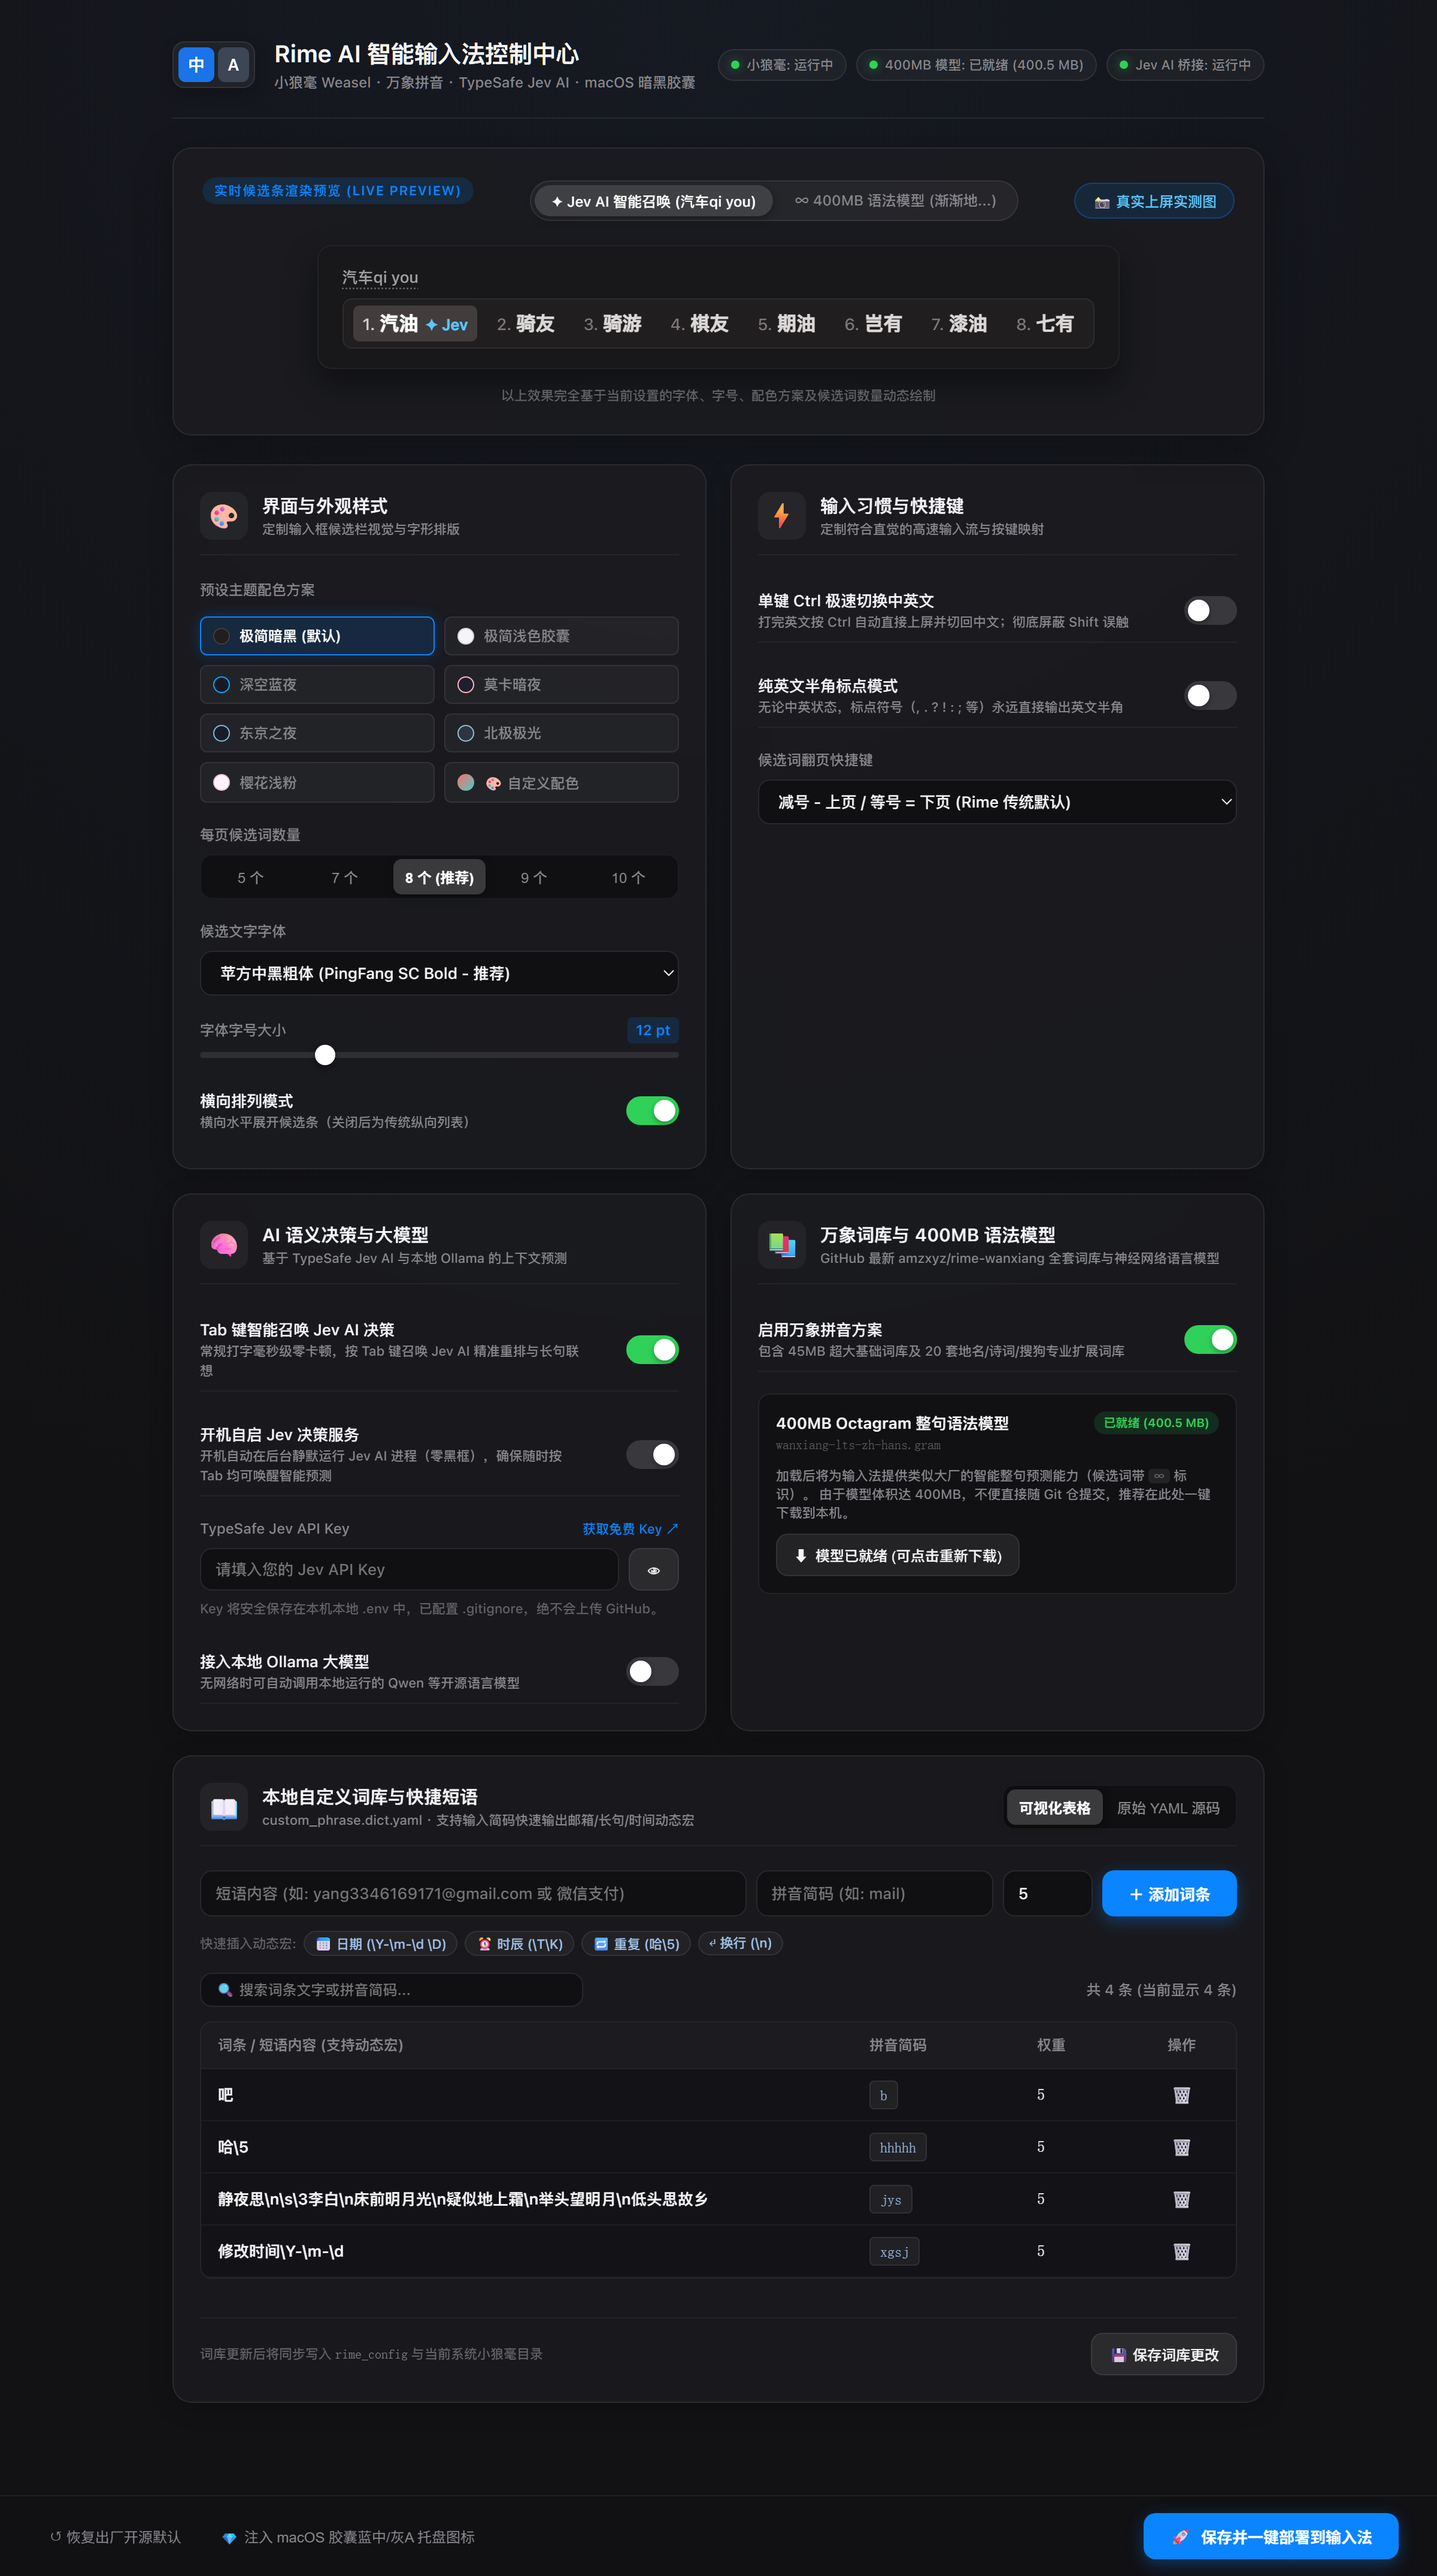
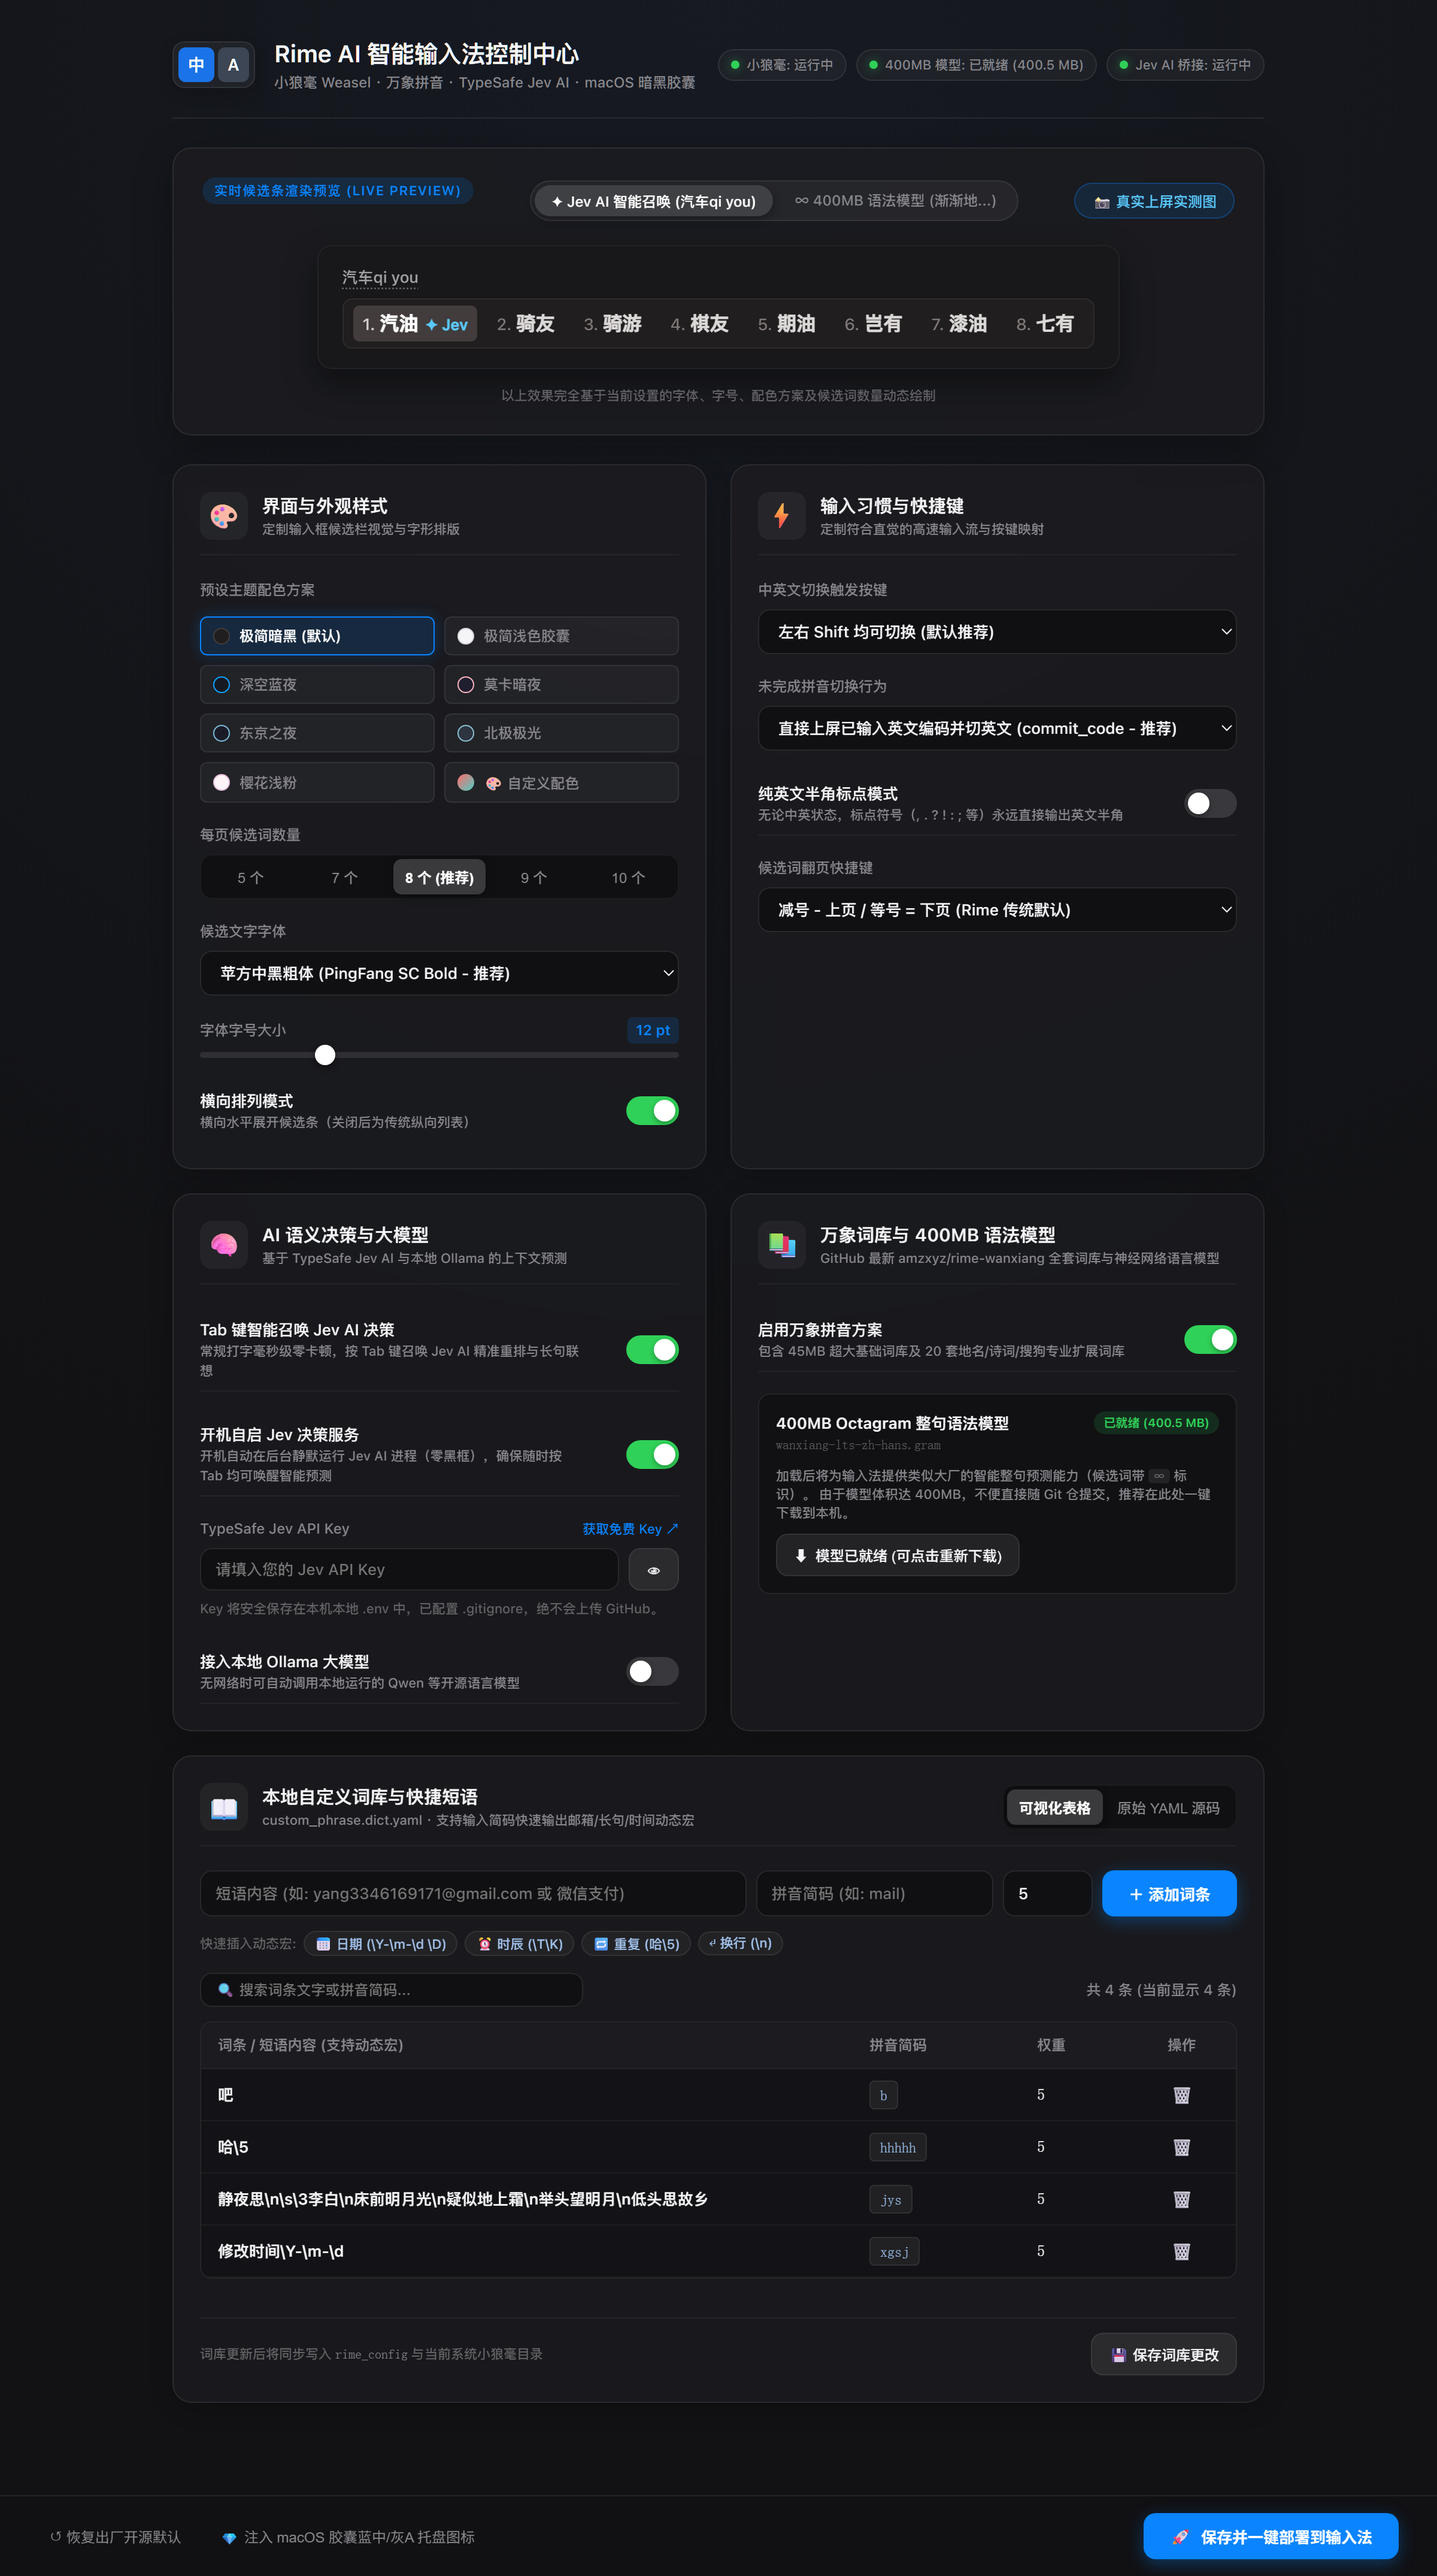
feat: make Chinese/English switch key customizable, set default to Shift, and enable instant compile on custom phrase save

Changed region(s): [[0.5312, 0.2181, 0.75, 0.3428], [0.8125, 0.2181, 0.875, 0.3428], [0.4375, 0.5609, 0.4688, 0.5921]]

diff --git a/settings_panel/web/script.js b/settings_panel/web/script.js
@@ -2,7 +2,9 @@
 
 let currentConfig = {
   page_size: 8,
-  ctrl_switch: true,
+  switch_key: "shift_both",
+  switch_action: "commit_code",
+  ctrl_switch: false,
   ascii_punct: true,
   paging_keys: "bracket",
   font_face: "PingFang SC Bold, PingFang SC Medium, PingFang SC, Microsoft YaHei UI, Segoe UI",
@@ -212,12 +214,28 @@ function applyConfigToUI(cfg) {
   const badge = document.getElementById("fontsize-val");
   if (badge && cfg.font_point) badge.innerText = cfg.font_point + " pt";
 
-  // 开关类
+  // 开关与按键类
   document.getElementById("switch-horizontal").checked = cfg.horizontal !== false;
-  document.getElementById("switch-ctrl").checked = !!cfg.ctrl_switch;
   document.getElementById("switch-punct").checked = !!cfg.ascii_punct;
   document.getElementById("switch-tab-jev").checked = cfg.tab_jev_ai !== false;
   document.getElementById("switch-wanxiang").checked = cfg.wanxiang_enabled !== false;
+
+  // 中英文切换按键与动作
+  const switchKeySelect = document.getElementById("switch-key-select");
+  if (switchKeySelect) {
+    if (cfg.switch_key) {
+      switchKeySelect.value = cfg.switch_key;
+    } else if (cfg.ctrl_switch) {
+      switchKeySelect.value = "ctrl_both";
+    } else {
+      switchKeySelect.value = "shift_both";
+    }
+  }
+
+  const switchActionSelect = document.getElementById("switch-action-select");
+  if (switchActionSelect && cfg.switch_action) {
+    switchActionSelect.value = cfg.switch_action;
+  }
 
   // 翻页按键
   const pagingSelect = document.getElementById("paging-select");
@@ -491,9 +509,21 @@ function bindEvents() {
     currentConfig.horizontal = e.target.checked;
     renderPreview();
   });
-  document.getElementById("switch-ctrl").addEventListener("change", (e) => {
-    currentConfig.ctrl_switch = e.target.checked;
-  });
+  // 中英文切换按键与动作监听
+  const switchKeySelect = document.getElementById("switch-key-select");
+  if (switchKeySelect) {
+    switchKeySelect.addEventListener("change", (e) => {
+      currentConfig.switch_key = e.target.value;
+      currentConfig.ctrl_switch = (e.target.value === "ctrl_both" || e.target.value === "ctrl_l" || e.target.value === "ctrl_r");
+    });
+  }
+
+  const switchActionSelect = document.getElementById("switch-action-select");
+  if (switchActionSelect) {
+    switchActionSelect.addEventListener("change", (e) => {
+      currentConfig.switch_action = e.target.value;
+    });
+  }
   document.getElementById("switch-punct").addEventListener("change", (e) => {
     currentConfig.ascii_punct = e.target.checked;
   });

diff --git a/settings_panel/web/index.html b/settings_panel/web/index.html
@@ -224,15 +224,27 @@
           </div>
         </div>
         <div class="card-body">
-          <div class="form-group switch-group">
-            <div>
-              <div class="switch-title">单键 Ctrl 极速切换中英文</div>
-              <div class="switch-desc">打完英文按 Ctrl 自动直接上屏并切回中文；彻底屏蔽 Shift 误触</div>
-            </div>
-            <label class="mac-switch">
-              <input type="checkbox" id="switch-ctrl">
-              <span class="slider"></span>
-            </label>
+          <div class="form-group">
+            <label>中英文切换触发按键</label>
+            <select id="switch-key-select" class="mac-select">
+              <option value="shift_both">左右 Shift 均可切换 (默认推荐)</option>
+              <option value="shift_l">仅左 Shift 单键切换</option>
+              <option value="shift_r">仅右 Shift 单键切换 (避开左侧打字误触)</option>
+              <option value="ctrl_both">左右 Ctrl 单键切换 (彻底屏蔽 Shift 误触)</option>
+              <option value="ctrl_l">仅左 Ctrl 单键切换</option>
+              <option value="ctrl_r">仅右 Ctrl 单键切换</option>
+              <option value="none">禁用单键切换 (仅保留 Caps Lock 切换，彻底杜绝误触)</option>
+            </select>
+          </div>
+
+          <div class="form-group">
+            <label>未完成拼音切换行为</label>
+            <select id="switch-action-select" class="mac-select">
+              <option value="commit_code">直接上屏已输入英文编码并切英文 (commit_code - 推荐)</option>
+              <option value="clear">清除未完成拼音并切英文 (clear)</option>
+              <option value="inline_ascii">行内临时英文模式 (inline_ascii)</option>
+              <option value="commit_text">上屏首选汉字并切英文 (commit_text)</option>
+            </select>
           </div>
 
           <div class="form-group switch-group">

diff --git a/tools/deploy.py b/tools/deploy.py
@@ -22,7 +22,9 @@ def get_default_config():
     """获取出厂开源默认配置（暗黑胶囊主题，8个候选词，其余标准默认）"""
     return {
         "page_size": 8,
-        "ctrl_switch": False,
+        "switch_key": "shift_both",       # "shift_both" | "shift_l" | "shift_r" | "ctrl_both" | "ctrl_l" | "ctrl_r" | "none"
+        "switch_action": "commit_code",   # "commit_code" | "clear" | "inline_ascii" | "commit_text"
+        "ctrl_switch": False,             # 保留向后兼容
         "ascii_punct": False,
         "paging_keys": "minus_equal",     # "minus_equal" | "bracket" | "comma_dot"
         "font_face": "PingFang SC Bold, PingFang SC Medium, PingFang SC, Microsoft YaHei UI, Segoe UI",
@@ -45,7 +47,6 @@ def get_default_config():
 def generate_default_custom_yaml(config):
     """根据配置生成 default.custom.yaml 文本内容"""
     page_size = config.get("page_size", 5)
-    ctrl_switch = config.get("ctrl_switch", False)
     ascii_punct = config.get("ascii_punct", False)
     paging_keys = config.get("paging_keys", "minus_equal")
     tab_jev_ai = config.get("tab_jev_ai", True)
@@ -57,23 +58,45 @@ def generate_default_custom_yaml(config):
     schemas.append("    - {schema: luna_pinyin_simp}")
     schema_lines = "\n".join(schemas)
 
-    # 快捷键切换
-    if ctrl_switch:
-        switch_block = f"""  ascii_composer/good_old_caps_lock: true
+    # 中英文切换按键自定义配置
+    switch_key = config.get("switch_key")
+    if not switch_key:
+        if config.get("ctrl_switch", False):
+            switch_key = "ctrl_both"
+        else:
+            switch_key = "shift_both"
+
+    action = config.get("switch_action", "commit_code")
+
+    k_shift_l = "noop"
+    k_shift_r = "noop"
+    k_ctrl_l = "noop"
+    k_ctrl_r = "noop"
+
+    if switch_key == "shift_both":
+        k_shift_l = action
+        k_shift_r = action
+    elif switch_key == "shift_l":
+        k_shift_l = action
+    elif switch_key == "shift_r":
+        k_shift_r = action
+    elif switch_key == "ctrl_both":
+        k_ctrl_l = action
+        k_ctrl_r = action
+    elif switch_key == "ctrl_l":
+        k_ctrl_l = action
+    elif switch_key == "ctrl_r":
+        k_ctrl_r = action
+    elif switch_key == "none":
+        pass
+
+    switch_block = f"""  ascii_composer/good_old_caps_lock: true
   ascii_composer/switch_key:
     Caps_Lock: clear
-    Shift_L: noop
-    Shift_R: noop
-    Control_L: commit_code
-    Control_R: commit_code"""
-    else:
-        switch_block = f"""  ascii_composer/good_old_caps_lock: true
-  ascii_composer/switch_key:
-    Caps_Lock: clear
-    Shift_L: inline_ascii
-    Shift_R: commit_text
-    Control_L: noop
-    Control_R: noop"""
+    Shift_L: {k_shift_l}
+    Shift_R: {k_shift_r}
+    Control_L: {k_ctrl_l}
+    Control_R: {k_ctrl_r}"""
 
     # 标点符号映射
     punct_block = ""

diff --git a/settings_panel/app.py b/settings_panel/app.py
@@ -13,6 +13,7 @@ import socket
 import threading
 import webbrowser
 import urllib.parse
+import subprocess
 from http.server import HTTPServer, SimpleHTTPRequestHandler
 from pathlib import Path
 
@@ -24,7 +25,7 @@ ENV_EXAMPLE = ROOT_DIR / ".env.example"
 
 # 动态加载工具模块
 sys.path.insert(0, str(ROOT_DIR))
-from tools.deploy import get_default_config, sync_and_deploy, RIME_USER_DIR
+from tools.deploy import get_default_config, sync_and_deploy, RIME_USER_DIR, WEASEL_DIR
 from tools.download_model import download_grammar_model, get_default_dest, EXPECTED_SIZE
 from tools.patch_icons import run_patch
 from tools.autostart import is_autostart_enabled, enable_autostart, disable_autostart
@@ -400,7 +401,19 @@ class SettingsHandler(SimpleHTTPRequestHandler):
                     if RIME_USER_DIR.exists():
                         (RIME_USER_DIR / "custom_phrase.dict.yaml").write_text(raw_content, encoding="utf-8")
 
-                    self.send_json({"ok": True, "message": "自定义词库已成功保存！点击【保存并一键部署】或重新部署后生效。"})
+                    deploy_msg = "自定义词库已成功保存！"
+                    deployer_exe = WEASEL_DIR / "WeaselDeployer.exe"
+                    if deployer_exe.exists():
+                        try:
+                            subprocess.run(f'"{deployer_exe}" /deploy', shell=True, timeout=30, capture_output=True)
+                            server_exe = WEASEL_DIR / "WeaselServer.exe"
+                            if server_exe.exists():
+                                subprocess.Popen([str(server_exe)], creationflags=0x08000000)
+                            deploy_msg = "自定义词库已成功保存并即时重新编译生效！可在任意窗口输入测试。"
+                        except Exception as ex:
+                            deploy_msg = f"词库已保存，但自动编译发生异常：{str(ex)}，可点击右下角一键部署。"
+
+                    self.send_json({"ok": True, "message": deploy_msg})
                 else:
                     self.send_json({"ok": False, "message": "无效的数据内容"}, code=400)
             except Exception as e:

diff --git a/README.md b/README.md
@@ -72,7 +72,7 @@ cd Rime-Capsule-AI
 - **主题配色方案**：8 大预设主题（暗黑胶囊、浅色胶囊、深空蓝夜、莫卡暗夜、东京之夜、北极极光、樱花浅粉）+ 自由调色盘
 - **本地自定义词库**：可视化表格或原始 YAML 模式轻松增删自定义短语与动态宏（`custom_phrase.dict.yaml`）
 - **候选词个数**：5 / 7 / 8 / 9 / 10 个（推荐 8 个）
-- **单键 Ctrl 极速切换**：开启后，打完英文按 Ctrl 自动将英文字符直接上屏并切回中文；彻底屏蔽 Shift 误触
+- **中英文切换按键自定义**：默认左右 `Shift` 均可切换；更支持在设置面板自定义为仅 `左Shift`、仅 `右Shift`（避开打字误触）、单键 `Ctrl`（彻底屏蔽 Shift 误触）或彻底禁用单键，并支持自定义编码上屏动作
 - **纯英文半角标点模式**：无论中英状态，标点符号（`, . ? ! : ;` 等）永远输出英文半角
 - **翻页快捷键**：支持 `[` `]` 翻页、`-` `=` 翻页或 `,` `.` 翻页
 - **AI 决策配置**：填入您的 Jev API Key（可选）或配置本地 Ollama 模型
@@ -86,7 +86,7 @@ cd Rime-Capsule-AI
 
 | 操作 / 功能 | 快捷键 | 说明 |
 | :--- | :--- | :--- |
-| **中英模式切换** | `Ctrl` 单键 | 打英文途中直接按 `Ctrl` 将字母上屏并切回中文 |
+| **中英模式切换** | `Shift` 单键 (默认) | 支持在设置面板自由自定义为 `左右Shift` / `左Shift` / `右Shift` / `Ctrl` 单键 / 禁用防误触 |
 | **候选词向上翻页** | `[` 或 `-` | 可在设置面板自选按键映射 |
 | **候选词向下翻页** | `]` 或 `=` | 可在设置面板自选按键映射 |
 | **智能召唤 Jev AI** | `Tab` | 候选框展开时按 Tab 唤醒 Jev AI 决策重排 |
